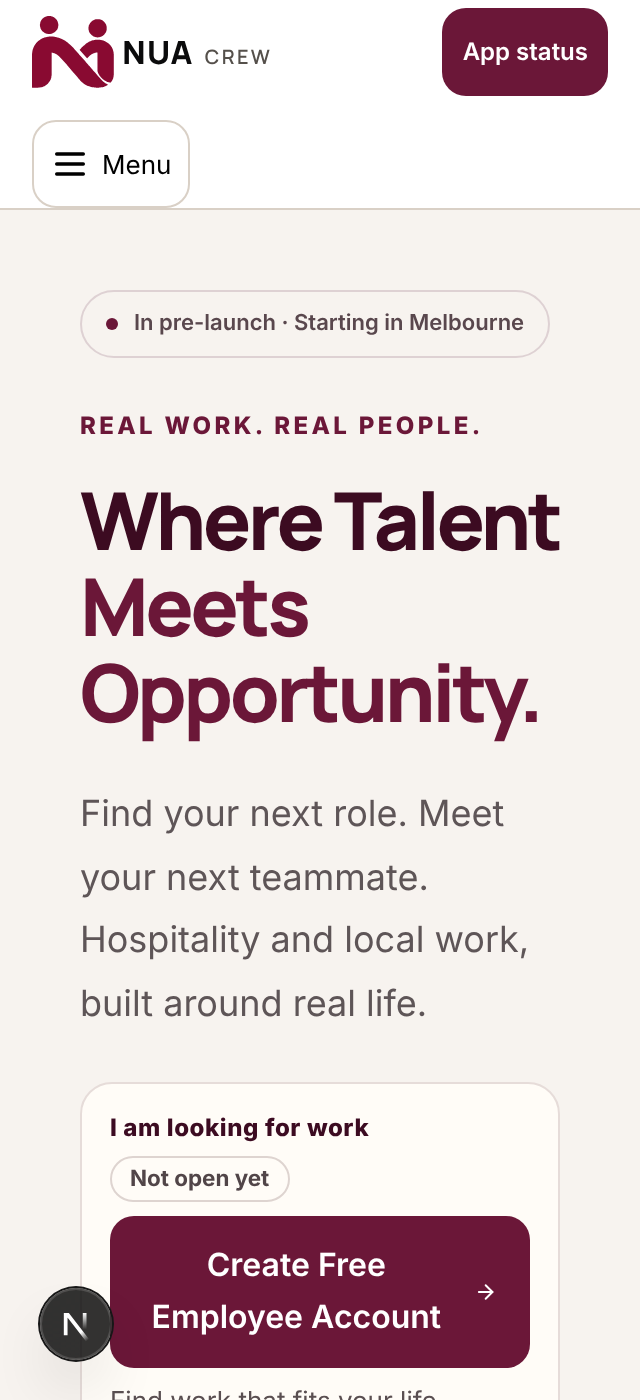
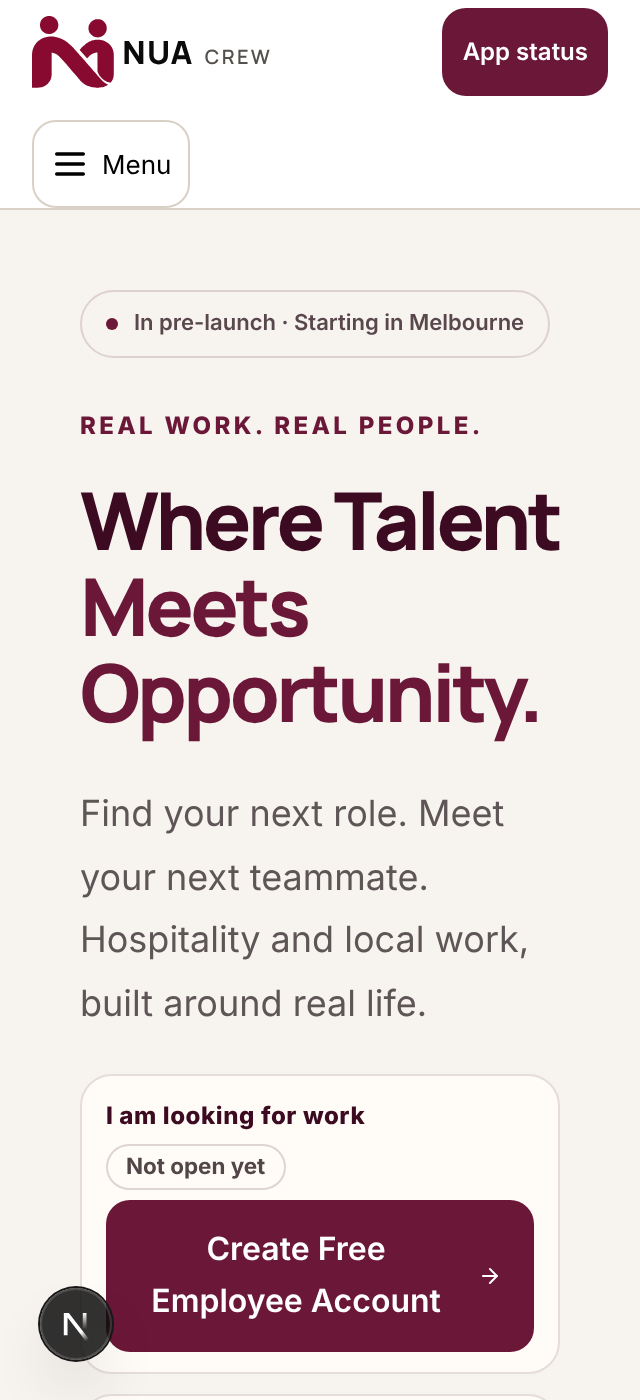
docs(handoff): Stage A merge evidence, final-layout screenshots, Stage B hosting audit
Claude-Session: https://claude.ai/code/session_015ctC1aZNgEqSGGSHf5SVqF

Changed region(s): [[0.1562, 0.7679, 0.8438, 1.0]]

diff --git a/docs/handoff/CLAUDE_SIGNUP_POSTING_COMPLETION_2026-11-08.md b/docs/handoff/CLAUDE_SIGNUP_POSTING_COMPLETION_2026-11-08.md
@@ -1,4 +1,4 @@
-# NUA CREW — P0 sign-up and job-posting completion report (in progress)
+# NUA CREW — P0 sign-up and job-posting completion report (in progress: A done, B partly, C and D not started)
 
 ## PR A — marketing entry points
 
@@ -15,3 +15,26 @@ Closed (the default) goes to `/apps#job-seekers|#employers|#post-a-job`, which s
 Screenshots: `docs/handoff/screenshots/p0a-home-390.png`, `p0a-home-desktop.png`, `p0a-menu-390.png`.
 
 Not yet recorded here: merged SHA, deployed SHAs, Stage B-D results. Nothing is claimed live.
+
+Merged: [#63](https://github.com/BSaumil/NUA-CREW/pull/63), squash commit `ffcfd558e310c8afaec9824d2a1cf3346309e32d` on `main`. CI on the exact merged head `ad577ee` was green: api, web, dependency-audit, e2e. The marketing site's production deployment for `ffcfd55` (`dpl_H6y2HU2Nbm9XoPqFDrPr9XvNUgg6`) is READY and aliased to iksaa.com.au. It was checked through the Vercel deployment URL because this sandbox cannot reach the real domain. The served page shows all three entry points as "Not open yet", links only to `/apps#job-seekers|#employers|#post-a-job`, contains no app/hire host URL, and is noindex.
+
+Screenshots (final layout; the marketing site has no dark theme, so the dark captures match light): `screenshots/p0a-home-{320,390,1440}-{light,dark}.png`, `screenshots/p0a-menu-390-light.png` (taken on the earlier layout; the phone-menu entries are covered by the `site-entry-points` spec).
+
+## PR B: protected hosting (partly done)
+
+Audit of `nua-crew-candidate` and `nua-crew-employer` before this change: one production deployment each, both at stale SHA `c5236975`, no environment variables, no Git-driven deployments since.
+
+Redeployed as **previews** (not production, no alias change, no env vars, SSO untouched):
+
+| App | Deployment | Deployed SHA | State | Routes checked on the deployment URL |
+|---|---|---|---|---|
+| candidate | `dpl_RjcKAEpHrttdQkJVppbaSe7vKpmw` | `ffcfd558` | READY | `/login` 200 (real candidate login). `/jobs` 500 (see blocker). `/register` returned the real sign-up form on the stale build; not re-fetched on the new build. |
+| employer | `dpl_6hR9uqJUFsPn5y5FaRVvaYQ5MWAR` | `ffcfd558` | build completed ("Deployment completed"; the state field lagged) | `/jobs/new` redirects to `/login?next=%2Fjobs%2Fnew` and the form carries `next=/jobs/new`. `/register`, `/jobs` not re-fetched. |
+
+Fetched through the Vercel connector, which uses a temporary share link, so the SSO gate itself was not tested from outside.
+
+**Blocker (not fixed, by design):** candidate `/jobs` fails with `TypeError: fetch failed` caused by `ECONNREFUSED 127.0.0.1:8000`. No `API_BASE_URL` is set, and no hosted API has passed a health check, so the apps fall back to localhost. I have not set it. Registration, login submit, job lists and posting cannot work on these previews. Needs: a hosted API with passing health and readiness checks, then a server-only `API_BASE_URL` set by the owner.
+
+Not verified: project root directory and install/build settings as configured in Vercel (the builds succeed from the monorepo root, which suggests they are right).
+
+Nothing here is live. No flag is open, and AWS, DNS, Stripe, production database and NZ transactions are untouched.
